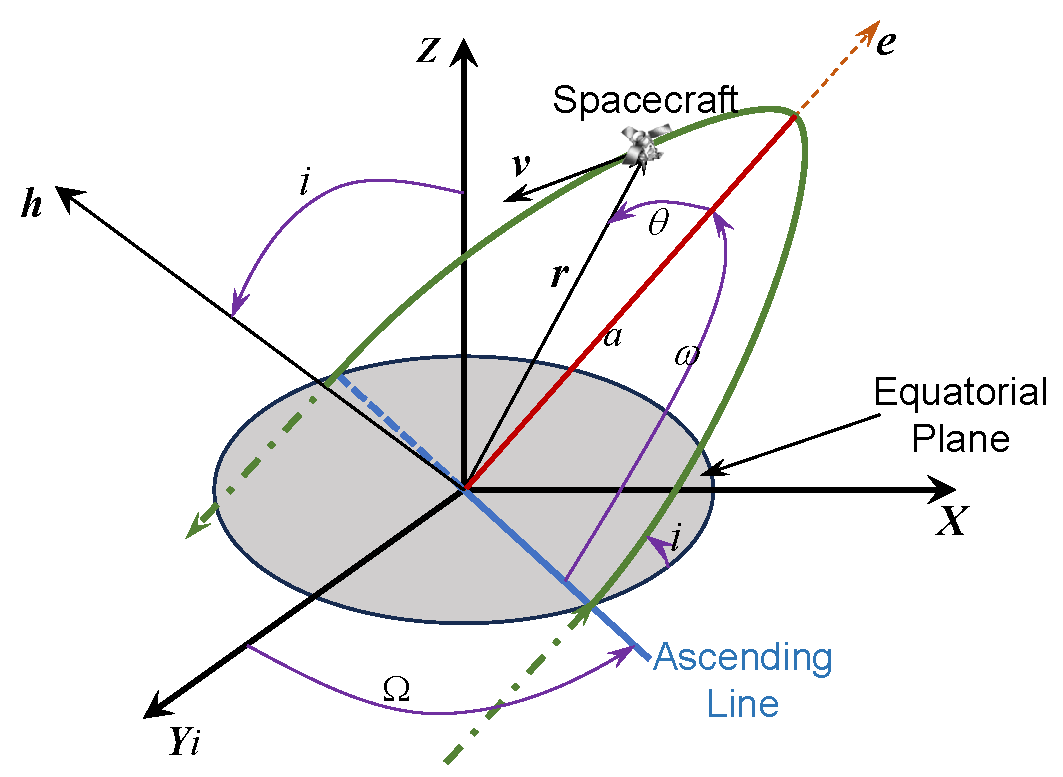
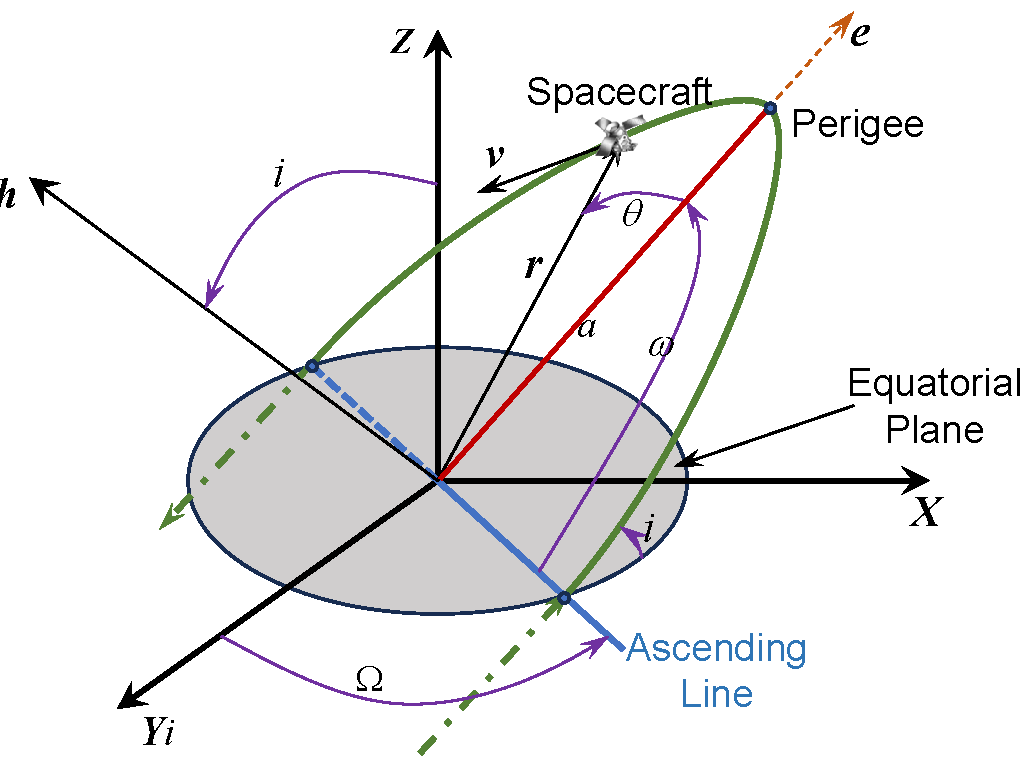
Added orbital elements and Kepler equations.
1. Perfecting the content of orbital elements and estabilishing
   connections with other parts.
2. Added Kepler's laws and Kepler equations, completing the content of
   Kepler's three laws; Kepler equations need further improvement.

diff --git a/else_knowledge/Physics/Foundation/开普勒定律.md b/else_knowledge/Physics/Foundation/开普勒定律.md
@@ -1,0 +1,39 @@
+---
+aliases:
+tags:
+  - Physics
+time: 2026-01-15T19:29:00
+---
+**摘要**
+此文档介绍开普勒第一、第二、第三等三大定律的具体内容，及其与轨道根数等内容之间的联系。
+
+## 开普勒第一定律-轨道形状定理
+
+航天器绕中心天体的轨迹是圆锥曲线，中心天体位于一个焦点。
+
+第一定律给出了航天器位置矢量$\boldsymbol{r}$与真近点角$\theta$之间的关联，即圆锥曲线的极坐标方程：
+
+$$
+\boldsymbol{r}(\theta) = \frac{a\,(1-e^2)}{1+e\,\cos\theta}
+$$
+
+其中，该极坐标方程建立在极点为中心天体原点，[[天文学基本术语解析#极轴|极轴]]指向近地点的极坐标中。
+
+显然，无论航天器飞行轨道面如何旋转倾斜，该方程在轨道面内恒成立，即[[轨道根数-轨道六要素|轨道根数]]中的[[轨道根数-轨道六要素#半长轴$a$ (Semi-major Axis)|半长轴]]$a$与[[轨道根数-轨道六要素#离心率$e$ (Eccentricity)|离心率]]$e$，轨道的大小和形状锁死。同时，近地点高度$r_p = a\,(1-e)$和远地点高度$r_a = a\,(1+e)$是这两个根数在开普勒第一定律下的直接产物。
+
+## 开普勒第二定律-面积速度定理
+
+航天器的位置矢量在相等时间内扫过相等的面积，即面积速度$\mathrm{d}\,A/\mathrm{d}\,t = h/2$为常数。其中，$h$是[[角动量#比角动量|比角动量]]大小。
+
+开普勒第二定律是轨道时间预报的基础。同时，该定律也决定了真近点角$\theta$是[[轨道根数-轨道六要素|轨道根数]]中唯一随时间变化的量。
+
+面积速度守恒等价于[[角动量#角动量守恒定律|角动量守恒]]，在中心天体引力场中自动满足。
+
+## 开普勒第三定律-周期定理
+
+轨道周期$T$的平方与半长轴$a$的立方成正比：
+
+$$
+T = 2\,\pi\,\frac{a^3}{\mu}
+$$
+其中，$\mu$是中心天体的引力常数。

diff --git a/else_knowledge/Physics/Coordinates/轨道根数-轨道六要素.md b/else_knowledge/Physics/Coordinates/轨道根数-轨道六要素.md
@@ -47,10 +47,29 @@ $$
 
 ## 轨道倾角$i$ (Inclination)
 
-轨道倾角是轨道平面与参考平面（当以地球为中心时，参考平面一般取赤道面）之间的夹角。具体的度量值指的是在升交点处，从参考平面逆时针到轨道平面的旋转角度，取值范围$[0^\circ,180^\circ]$。其中，升交点指的是升交线与参考平面的交点。
+轨道倾角是轨道平面与参考平面（当以地球为中心时，参考平面一般取赤道面）之间的夹角。具体的度量值指的是在升交点处，从参考平面逆时针到轨道平面的旋转角度，取值范围$[0^\circ,180^\circ]$。其中，升交点指的是航天器飞行轨道面与赤道面的两个交点之一。
 
 轨道倾角决定了轨道面在空间中的倾斜程度，与升交点赤经一起确定了轨道面的绝对朝向。
 
 ## 升交点赤经$\Omega$ (Right Ascension of the Ascending Node, RAAN)
 
-升交点赤经指的时在地心惯性坐标系中，从参考方向（以地球为中心时，参考方向一般指[[天文学基本术语解析#春分点|春分点]]方向）沿赤道面逆时针旋转到升交点的角度。
+升交点赤经指的是在地心惯性坐标系中，从参考方向（以地球为中心时，参考方向一般指[[天文学基本术语解析#春分点|春分点]]方向）沿赤道面逆时针旋转到升交点的角度，取值范围$[0^\circ,360^\circ)$。
+
+升交点赤经给出了航天器飞行轨道面绕[[天文学基本术语解析#极轴|极轴]]的旋转角度。形象地描述，[[轨道根数-轨道六要素#轨道倾角$i$ (Inclination)|轨道倾角]]决定了轨道面倾斜的度数，而升交点赤经则决定了该平面倾斜向哪一侧，一旦$i,\,\Omega$固定，轨道面在空间中的方位就唯一确定了。
+
+## 近地点辐角$\omega$(Argument of Perigee)
+
+近地点辐角指的是在航天器飞行轨道面内，沿着航天器运动方向，从升交点到近地点的角度。当轨道面为椭圆时，$\omega$决定了该轨道长轴的具体指向。例如，当$\omega=0^\circ$时，近地点恰好与升交点重合，取值范围$[0^\circ,360^\circ)$。
+
+*注：当航天器飞行轨道为圆形时，即偏心率$e=0$，近地点无定义，进而$\omega$无意义。一般情况下，此时将近地点辐角$\omega$与真近点角$\theta$合成称为平纬度辐角。同时，当倾角$i=0^\circ,\,180^\circ$时，升交点屋顶一，升交点赤经$\Omega$与$\omega$均会出现奇点，需要改用非奇异根数进行表示。*
+
+## 真近点角$\theta$或$f$(True Anomaly)
+
+真近点角指的是在航天器飞行轨道面内，沿着航天器运动方向，从轨道近地点到航天器当前位置的角度。真近点角是唯一一个直接反映航天器在当前时刻处于轨道哪一点的参数，是时间的函数，其余五个根数在[[二体问题]]中均为常数。
+
+真近点角取值范围$[0^\circ,360^\circ)$。
+
+需要注意的是，由于真近点角随时间变化呈现非均匀性，在计算中常引入偏近点角$E$和平近点角$M$作为替代。
+
+*注：对于圆轨道而言，近地点不存在，真近点角无意义，此时多使用真经度或平经度。*
+

diff --git a/else_knowledge/Physics/Foundation/角动量.md b/else_knowledge/Physics/Foundation/角动量.md
@@ -33,11 +33,21 @@ $$
 
 *注：对于绕定点的圆周运动，线速度$\boldsymbol{v}$与角速度$\boldsymbol{\omega}$满足叉乘关系，即：*
 
-*$$
+$$
 \boldsymbol{v} = \boldsymbol{\omega}\times \boldsymbol{r}
-$$*
+$$
 
 *其中，$\boldsymbol{\omega}$的方向沿着转轴，大小为角速度；叉乘结果的方向沿着切线，对应线速度方向。*
+
+## 比角动量
+
+为了在轨道力学中更方便地描述物体的几何运动，可以消去质量的影响，得到比角动量：
+
+$$
+\boldsymbol{h} = \frac{\boldsymbol{L}}{m} = \boldsymbol{r}\times \boldsymbol{v}
+$$
+
+国际单位为$\mathrm{m^2/s}$。
 
 # 角动量守恒定律
 

diff --git a/else_knowledge/Physics/Foundation/开普勒方程.md b/else_knowledge/Physics/Foundation/开普勒方程.md
@@ -1,0 +1,12 @@
+---
+aliases:
+tags:
+  - Physics
+time: 2026-06-25T18:47:00
+---
+**摘要**
+此文档介绍开普勒方程的基本内容，并建立了与开普勒定律、轨道根数等内容的联系。
+
+# 定义
+
+开普勒方程是[[二体问题]]中联系时间与轨道位置的核心数学关系。本质上，该关系是一个超越方程，将可以直接由时间线性计算的平近点角$M$与几何辅助量$E$联系起来，进而通过$E$得到航天器在椭圆轨道上的真实位置，即[[轨道根数-轨道六要素#真近点角$ theta$或$f$(True Anomaly)|真近点角]]的值。

diff --git a/else_knowledge/Physics/Coordinates/天文学基本术语解析.md b/else_knowledge/Physics/Coordinates/天文学基本术语解析.md
@@ -75,3 +75,8 @@ time: 2026-01-14T17:53:00
 
 ## 轨道根数
 
+[[轨道根数-轨道六要素|轨道根数]]是描述中心天体物理场中某物体运动轨迹的一组参数（无摄动时为常数），一般包含六个元素，因此又称为轨道六根数或开普勒轨道根数。六个参数分别为[[轨道根数-轨道六要素#半长轴$a$ (Semi-major Axis)|半长轴]]、[[轨道根数-轨道六要素#离心率$e$ (Eccentricity)|离心率]]、[[轨道根数-轨道六要素#轨道倾角$i$ (Inclination)|轨道倾角]]、[[轨道根数-轨道六要素#升交点赤经$ Omega$ (Right Ascension of the Ascending Node, RAAN)|升交点赤经]]、[[轨道根数-轨道六要素#近地点辐角$ omega$(Argument of Perigee)|近地点辐角]]和[[轨道根数-轨道六要素#真近点角$ theta$或$f$(True Anomaly)|真近点角]]。
+
+## 极轴
+
+极轴（Polar Axis）主要指极坐标系里测量角度的起始射线，在航天领域，通常以地球中心为极点，极轴表示从地心指向近地点的方向。以此为坐标系进行空间中任一点的坐标表示时，写作$(r,\,\theta)$，其中，$\theta$恰为[[轨道根数-轨道六要素|轨道根数]]中的[[轨道根数-轨道六要素#真近点角|真近点角]]。

diff --git a/else_knowledge/Physics/Foundation/二体问题.md b/else_knowledge/Physics/Foundation/二体问题.md
@@ -80,7 +80,7 @@ $$
 
 # 二体问题通解
 
-二体问题Eq. (4)的通解在几何上实际上对应于两个天体在做相对运动时的轨迹大致形状，亦是[[开普勒第一定律]]的数学本质，可以得出，该解为圆锥曲线。
+二体问题Eq. (4)的通解在几何上实际上对应于两个天体在做相对运动时的轨迹大致形状，亦是[[开普勒定律]]的数学本质，可以得出，该解为圆锥曲线。
 
 仍以地球和航天器为例，以下将对“二体问题的通解在几何上对应于圆锥曲线”这一结论进行证明。
 
@@ -198,4 +198,4 @@ r = \frac{p}{1+e\cos\nu}
 \tag{17}
 $$
 
-式Eq. (17)即为极坐标下圆锥曲线的标准方程形式。因此，根据$e$的具体范围，可以得出二体运动的轨道形式可以是圆、椭圆、抛物线或双曲线等圆锥曲线。同时这也是[[开普勒第一定律]]的数学描述，行星围绕太阳作椭圆运动，二体问题的轨道通常为开普勒轨道。
+式Eq. (17)即为极坐标下圆锥曲线的标准方程形式。因此，根据$e$的具体范围，可以得出二体运动的轨道形式可以是圆、椭圆、抛物线或双曲线等圆锥曲线。同时这也是[[开普勒定律]]的数学描述，行星围绕太阳作椭圆运动，二体问题的轨道通常为开普勒轨道。

diff --git a/else_knowledge/Physics/Foundation/旋转矢量微分法则.md b/else_knowledge/Physics/Foundation/旋转矢量微分法则.md
@@ -13,13 +13,13 @@ time: 2026-04-01T20:26:00
 
 ### 符号约定与定义
 
-- [[坐标系#惯性坐标系|惯性参考系]]：固定系，记作$\boldsymbol{I}$，满足牛顿力学定律的无加速度参考系，其正交归一基矢为$\{\boldsymbol{\hat{I}},\,\boldsymbol{\hat{J}},\,\boldsymbol{\hat{K}}\}$。基矢在惯性系中绝对固定，不随时间变化，即：
+- [[惯性与非惯性坐标系#惯性坐标系|惯性参考系]]：固定系，记作$\boldsymbol{I}$，满足牛顿力学定律的无加速度参考系，其正交归一基矢为$\{\boldsymbol{\hat{I}},\,\boldsymbol{\hat{J}},\,\boldsymbol{\hat{K}}\}$。基矢在惯性系中绝对固定，不随时间变化，即：
 
 $$
 \frac{\mathrm{d}\,\boldsymbol{\hat{I}}}{\mathrm{d}\,t}\Bigg|_{\boldsymbol{I}}=\frac{\mathrm{d}\,\boldsymbol{\hat{J}}}{\mathrm{d}\,t}\Bigg|_{\boldsymbol{I}}=\frac{\mathrm{d}\,\boldsymbol{\hat{K}}}{\mathrm{d}\,t}\Bigg|_{\boldsymbol{I}}=0
 \tag{3}
 $$
-- 旋转坐标系（[[坐标系#非惯性坐标系|非惯性系]]/动系/本体系）：记作$\boldsymbol{B}$，与刚体固连、随着刚体一起在[[坐标系#惯性坐标系|惯性参考系]]中作旋转运动的参考系，其正交归一基矢为$\{\boldsymbol{\hat{i}},\,\boldsymbol{\hat{j}},\,\boldsymbol{\hat{k}}\}$。基矢随刚体同步旋转，其相对于惯性系的角速度矢量为$\boldsymbol{\omega}_{\boldsymbol{BI}}$（下文简记为$\boldsymbol{\omega}$，无特殊说明时，均指动系$\boldsymbol{B}$相对于惯性系$\boldsymbol{I}$的角速度）；
+- 旋转坐标系（[[惯性与非惯性坐标系#非惯性坐标系|非惯性系]]/动系/本体系）：记作$\boldsymbol{B}$，与刚体固连、随着刚体一起在[[惯性与非惯性坐标系#惯性坐标系|惯性参考系]]中作旋转运动的参考系，其正交归一基矢为$\{\boldsymbol{\hat{i}},\,\boldsymbol{\hat{j}},\,\boldsymbol{\hat{k}}\}$。基矢随刚体同步旋转，其相对于惯性系的角速度矢量为$\boldsymbol{\omega}_{\boldsymbol{BI}}$（下文简记为$\boldsymbol{\omega}$，无特殊说明时，均指动系$\boldsymbol{B}$相对于惯性系$\boldsymbol{I}$的角速度）；
 - 几何矢量不变性：本文讨论的位置、速度、角速度等矢量，均为**欧几里得空间中的几何不变量**-其物理存在、长度、空间绝对指向与参考系无关，仅其在不同基矢下的分量数值随基的选择变化；
 - 矢量的分量表示：同一几何矢量$\boldsymbol{r}$，在不同基矢下可分解为不同的标量分量列阵：
 	- 惯性系$\boldsymbol{I}$基下的分量矩阵：$\boldsymbol{r}^\boldsymbol{I}=[X,Y,Z]^\mathrm{T}$，满足$\boldsymbol{r}=X\boldsymbol{\hat{I}}+Y\boldsymbol{\hat{J}}+Z\boldsymbol{\hat{K}}$，

diff --git a/else_knowledge/Physics/Coordinates/LVLH-本地垂直-本地水平坐标系.md b/else_knowledge/Physics/Coordinates/LVLH-本地垂直-本地水平坐标系.md
@@ -13,7 +13,7 @@ time: 2026-03-24T16:38:00
 
 本地垂直-本地水平坐标系（Local Vertical-Local Horizontal，LVLH）是航天器相对轨道运动（[[Clohessy-Wiltshire方程|CW方程]]，交会对接）的核心局部坐标系，一般又叫做轨道坐标系。
 
-LVLH坐标系以航天任务中作为参考基准的航天器质心（简称为目标航天器）为原点，坐标轴方向与该目标航天器的瞬时轨道状态紧密关联，为标准右手坐标系。理想情况下，LVLH坐标系的三轴始终与目标航天器的轨道径向、切向、法向保持一致，其运动状态完全随目标航天器的轨道运动，属于[[坐标系#非惯性坐标系|非惯性坐标系]]。
+LVLH坐标系以航天任务中作为参考基准的航天器质心（简称为目标航天器）为原点，坐标轴方向与该目标航天器的瞬时轨道状态紧密关联，为标准右手坐标系。理想情况下，LVLH坐标系的三轴始终与目标航天器的轨道径向、切向、法向保持一致，其运动状态完全随目标航天器的轨道运动，属于[[惯性与非惯性坐标系#非惯性坐标系|非惯性坐标系]]。
 
 需要注意的是，实际航天工程应用中，LVLH的定义虽有统一规范，但根据目标航天器的轨道类型（圆轨道、椭圆轨道等）和任务需求（交会对接、编队飞行等），其三轴指向的具体含义会略有差异。其中，最常用的或默认使用的是适配圆轨道（如[[Clohessy-Wiltshire方程|CW方程]]建模场景）的标准LVLH坐标系，与航天器相对运动线性化模型高度契合。
 